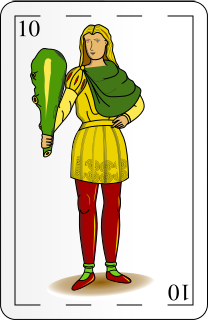
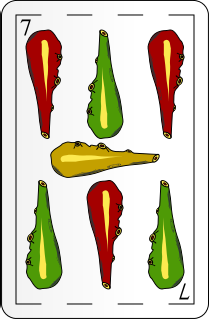
css modificado

diff --git a/estilos.css b/estilos.css
@@ -1,127 +1,90 @@
 @import url('https://fonts.googleapis.com/css2?family=Bangers&display=swap');
 
-/* Efecto de grano de película antigua */
+body {
+    margin: 0;
+    padding: 0;
+    min-height: 100vh;
+    display: flex;
+    flex-direction: column;
+    align-items: center;
+    font-family: 'Bangers', cursive;
+    text-transform: uppercase;
+    
+    /* --- CONFIGURACIÓN DEL FONDO --- */
+    /* Sustituye 'tu-imagen.png' por el nombre del archivo que descargaste */
+    background-image: url('tu-imagen.png'); 
+    background-size: cover;         /* La imagen cubrirá toda la pantalla */
+    background-position: center;    /* Centrada siempre */
+    background-attachment: fixed;   /* El fondo no se mueve al hacer scroll */
+    background-repeat: no-repeat;
+}
+
+/* Capa de grano de película para dar el toque Cuphead */
 body::before {
     content: "";
     position: fixed;
-    top: 0; left: 0;
-    width: 100%; height: 100%;
-    background: url('https://www.transparenttextures.com/patterns/stardust.png');
-    opacity: 0.15;
+    top: 0; left: 0; width: 100%; height: 100%;
+    background-image: url('https://www.transparenttextures.com/patterns/stardust.png');
+    opacity: 0.1;
     pointer-events: none;
     z-index: 10;
 }
 
-body {
-    background-color: #2c2c2c; /* Fondo oscuro tipo cine mudo */
-    background-image: radial-gradient(circle, #4a3b30 0%, #1a1a1a 100%);
-    font-family: 'Bangers', cursive; /* Fuente estilo cómic/retro */
-    color: #f1e4d0;
-    display: flex;
-    flex-direction: column;
-    align-items: center;
-    padding: 20px;
-    margin: 0;
-    letter-spacing: 2px;
+h1 {
+    font-size: 4rem;
+    color: #e74c3c;
+    text-shadow: 4px 4px 0px #000;
+    margin: 20px 0;
 }
 
-/* El "Tapete" estilo escenario de jefe */
+/* Los tapetes ahora son semitransparentes para dejar ver el fondo */
 #tapete, #maquina {
     display: flex;
-    flex-wrap: wrap;
     justify-content: center;
     gap: 15px;
-    min-height: 180px;
-    width: 85%;
-    max-width: 900px;
-    background-color: #d35400; /* Naranja vibrante Cuphead */
-    border: 6px solid #000;
-    box-shadow: inset 0 0 50px rgba(0,0,0,0.5), 10px 10px 0px #000;
+    min-height: 150px;
+    width: 80%;
+    max-width: 800px;
+    background-color: rgba(0, 0, 0, 0.4); /* Negro con 40% de opacidad */
+    border: 5px solid #000;
     border-radius: 20px;
-    margin: 25px 0;
-    padding: 30px;
-    position: relative;
+    padding: 20px;
+    margin: 10px 0;
+    box-shadow: 10px 10px 0px rgba(0,0,0,0.5);
 }
 
-/* Títulos de las secciones (puedes añadirlos con JS o HTML) */
-#tapete::before { content: "PLAYER"; position: absolute; top: -20px; left: 20px; background: #000; padding: 0 15px; }
-#maquina::before { content: "THE DEVIL"; position: absolute; top: -20px; left: 20px; background: #000; padding: 0 15px; }
-
-/* Cartas con borde grueso y estilo retro */
-#tapete img, #maquina img {
-    width: 110px;
-    height: auto;
-    border: 4px solid #000;
-    border-radius: 10px;
-    background: #fff;
-    filter: sepia(0.3) contrast(1.2); /* Aspecto de papel viejo */
-    transform: rotate(calc(-5deg + Math.random() * 10deg)); /* Efecto desordenado */
-    transition: transform 0.3s cubic-bezier(0.175, 0.885, 0.32, 1.275);
-}
-
-#tapete img:hover {
-    transform: scale(1.1) rotate(0deg) !important;
-    z-index: 5;
-}
-
-/* Botones estilo "Fight!" */
+/* Estilo de los botones */
 button {
-    background-color: #e74c3c; /* Rojo clásico */
-    color: white;
-    border: 4px solid #000;
-    padding: 15px 35px;
     font-family: 'Bangers', cursive;
-    font-size: 1.8rem;
-    text-transform: uppercase;
+    font-size: 1.5rem;
+    padding: 10px 30px;
     cursor: pointer;
+    background-color: #f1c40f;
+    border: 4px solid #000;
     box-shadow: 5px 5px 0px #000;
-    margin: 15px;
-    transition: all 0.1s;
+    margin: 10px;
 }
 
 button:hover {
-    background-color: #f1c40f; /* Amarillo al pasar el mouse */
-    color: #000;
-    transform: translate(-2px, -2px);
-    box-shadow: 7px 7px 0px #000;
-}
-
-button:active {
-    transform: translate(3px, 3px);
-    box-shadow: 0px 0px 0px #000;
-}
-
-/* Mensaje de Ganador estilo "A KNOCKOUT!" */
-#ganador {
-    font-size: 4rem;
-    color: #f1c40f;
-    text-shadow: 5px 5px 0px #000, -2px -2px 0px #000;
-    margin: 30px 0;
-    text-align: center;
-    animation: bounce 0.5s infinite alternate;
+    transform: scale(1.1);
+    background-color: #e74c3c;
+    color: white;
 }
 
 /* Marcadores */
 #contadorJu, #contadorMaqui {
-    font-size: 1.5rem;
-    background: #000;
-    padding: 10px 25px;
-    border-radius: 50px;
-    border: 2px solid #f1e4d0;
-    display: inline-block;
-    margin: 10px;
+    font-size: 2rem;
+    color: #fff;
+    text-shadow: 3px 3px 0px #000;
+    background: rgba(0,0,0,0.6);
+    padding: 5px 15px;
+    border-radius: 10px;
+    margin-top: 5px;
 }
 
-/* Animación simple de rebote */
-@keyframes bounce {
-    from { transform: scale(1); }
-    to { transform: scale(1.1); }
-}
-
-/* La imagen de demo (Mazo) */
-#demo {
-    max-width: 140px;
-    border: 5px solid #000;
-    border-radius: 15px;
-    background: #fff;
+#ganador {
+    font-size: 3.5rem;
+    color: #f1c40f;
+    text-shadow: 5px 5px 0px #000;
+    height: 60px;
 }

diff --git a/js/script.js b/js/script.js
@@ -44,7 +44,7 @@ var carta33 = new Carta(3, "images/3Bastos.png");           // 3 de Bastos; valo
 var carta34 = new Carta(4, "images/4Bastos.png");           // 4 de Bastos; valor carta = 4
 var carta35 = new Carta(5, "images/5Bastos.png");           // 5 de Bastos; valor carta = 5
 var carta36 = new Carta(6, "images/6Bastos.png");           // 6 de Bastos; valor carta = 6
-var carta37 = new Carta(7, "images/7Bastos.png");           // 7 de Bastos; valor carta =7
+var carta37 = new Carta(7, "images/7bastos.png");           // 7 de Bastos; valor carta =7
 var carta38 = new Carta(0.5, "images/SotaBastos.png");      // Sota de Bastos; valor carta = 0.5
 var carta39 = new Carta(0.5, "images/CaballoBastos.png");   // Caballo de Bastos; valor carta = 0.5
 var carta40 = new Carta(0.5, "images/ReyBastos.png");       // Rey de Bastos; valor carta = 0.5

diff --git a/index.html b/index.html
@@ -6,9 +6,9 @@
     <title>SIETE Y MEDIA</title>
     <script src="js/script.js"></script>
     <link rel="stylesheet" href="estilos.css">
-    <h1>SIETE Y MEDIA</h1>
 </head>
 <body>
+    <h1>SIETE Y MEDIA</h1>
     <img id="demo" src="" alt="">
     <button onclick="SacarCarta()">SacarCarta</button>
     <div id="tapete"></div>
